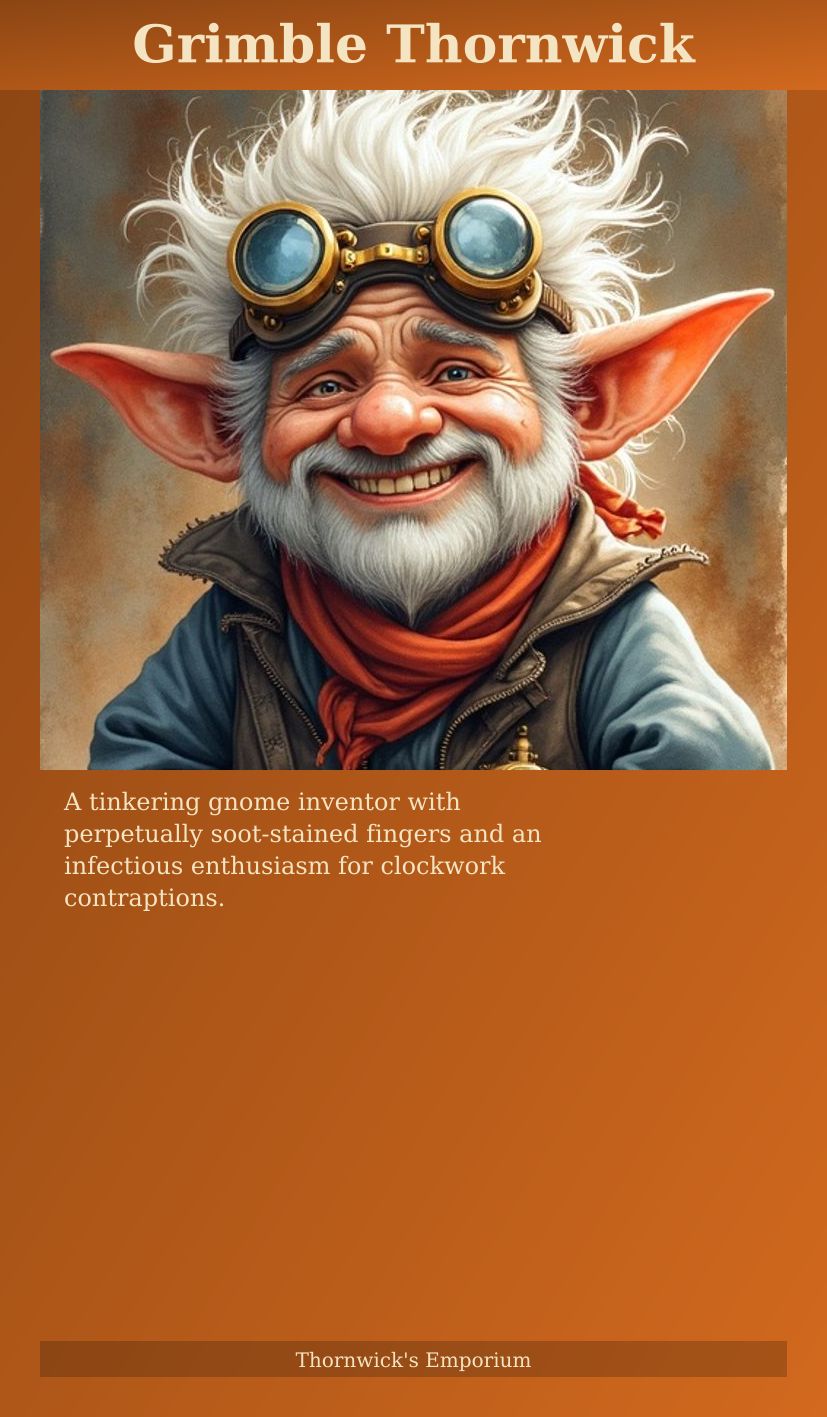
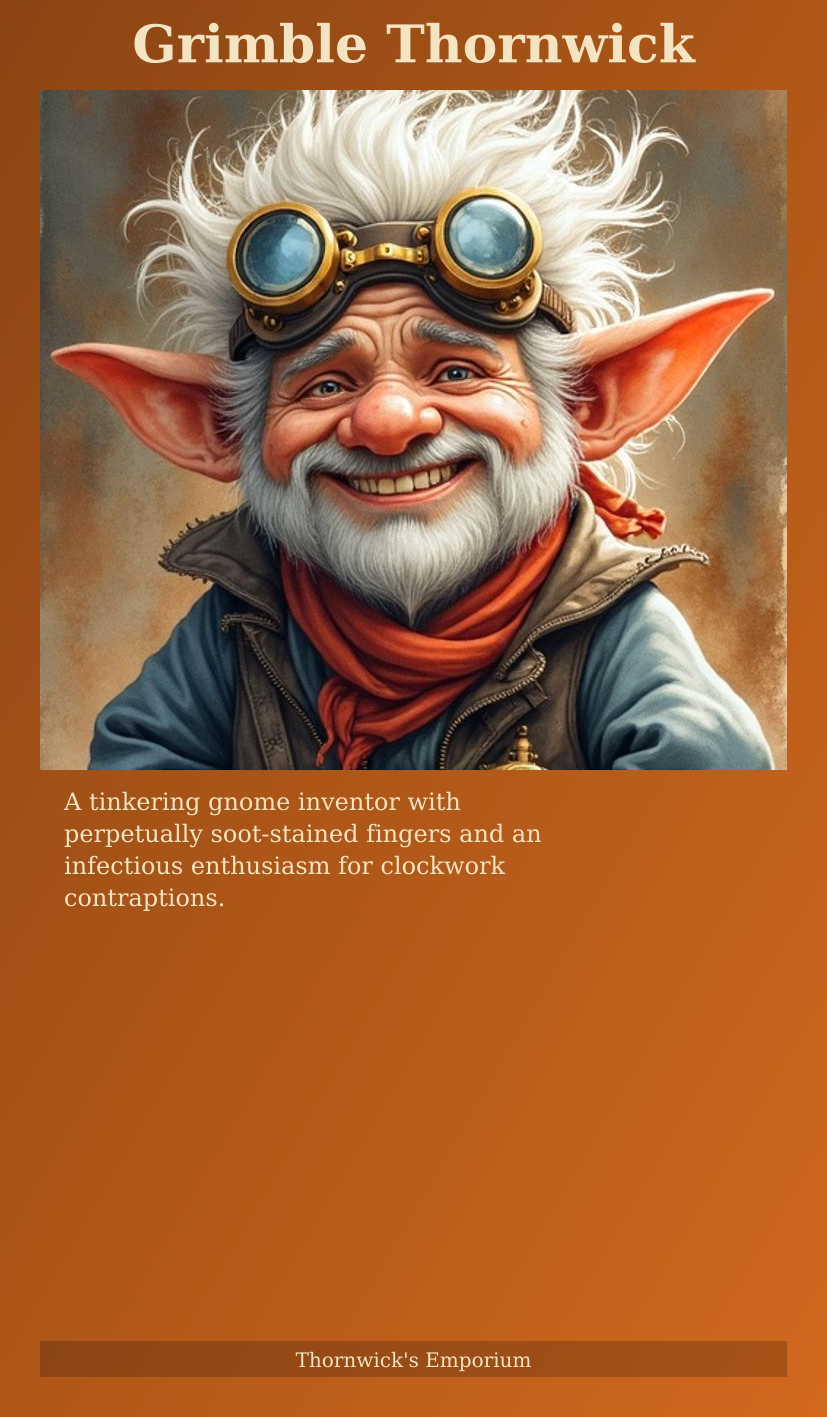
Fix divider visibility, typography layout, and gradient seam
- Divider: now light color (#f4e4c1) with 3px width for visibility
- Typography: use stacked images instead of tables (fixes viewport resize)
- Background: single rect instead of two overlapping (fixes gradient seam)

Changed region(s): [[0.0, 0.0311, 1.0, 0.0621]]

diff --git a/packages/card-generator/scripts/generate-all-variants.js b/packages/card-generator/scripts/generate-all-variants.js
@@ -68,7 +68,7 @@ function baseFullFrame(opts = {}) {
   `) : '';
 
   const dividerSvg = divider ? `
-    <line x1="${B + 20}" y1="${textAreaTop + 10}" x2="${W - B - 20}" y2="${textAreaTop + 10}" stroke="${NPC_COLORS.accent}" stroke-width="2"/>
+    <line x1="${B + 20}" y1="${textAreaTop + 10}" x2="${W - B - 20}" y2="${textAreaTop + 10}" stroke="#f4e4c1" stroke-width="3" opacity="0.7"/>
   ` : '';
 
   const lines = wrap(esc(CARD.desc), charsPerLine);
@@ -82,10 +82,8 @@ function baseFullFrame(opts = {}) {
         <stop offset="100%" style="stop-color:${NPC_COLORS.light}"/>
       </linearGradient>
     </defs>
-    <!-- Full card background (border color) -->
+    <!-- Single background for entire card -->
     <rect width="${W}" height="${H}" fill="url(#c)"/>
-    <!-- Header: full width at top -->
-    <rect width="${W}" height="${headerH}" fill="url(#c)"/>
     ${icons}
     <text x="${W/2}" y="${headerH/2 + titleSize/3}" font-family="${fontFamily}" font-size="${titleSize}" font-weight="bold" fill="#f4e4c1" text-anchor="middle">${esc(CARD.name)}</text>
     <!-- Text area (inset by border on sides and bottom) -->
@@ -265,13 +263,17 @@ New default: **Full frame**, 40px border, 90px header, solid color, icons, **div
 
 ## Typography
 
-| Serif (default) | Sans-serif |
-|:---:|:---:|
-| <img src="00-default.png" width="300"/> | <img src="05-sans-serif.png" width="300"/> |
+**Serif (default)**
+<img src="00-default.png" width="300"/>
 
-| Centered | Italic |
-|:---:|:---:|
-| <img src="06-centered-text.png" width="300"/> | <img src="07-italic-desc.png" width="300"/> |
+**Sans-serif**
+<img src="05-sans-serif.png" width="300"/>
+
+**Centered**
+<img src="06-centered-text.png" width="300"/>
+
+**Italic**
+<img src="07-italic-desc.png" width="300"/>
 
 ---
 `;

diff --git a/campaigns/example/cards/exploration/VARIANTS.md b/campaigns/example/cards/exploration/VARIANTS.md
@@ -38,12 +38,16 @@ New default: **Full frame**, 40px border, 90px header, solid color, icons, **div
 
 ## Typography
 
-| Serif (default) | Sans-serif |
-|:---:|:---:|
-| <img src="00-default.png" width="300"/> | <img src="05-sans-serif.png" width="300"/> |
+**Serif (default)**
+<img src="00-default.png" width="300"/>
 
-| Centered | Italic |
-|:---:|:---:|
-| <img src="06-centered-text.png" width="300"/> | <img src="07-italic-desc.png" width="300"/> |
+**Sans-serif**
+<img src="05-sans-serif.png" width="300"/>
+
+**Centered**
+<img src="06-centered-text.png" width="300"/>
+
+**Italic**
+<img src="07-italic-desc.png" width="300"/>
 
 ---
